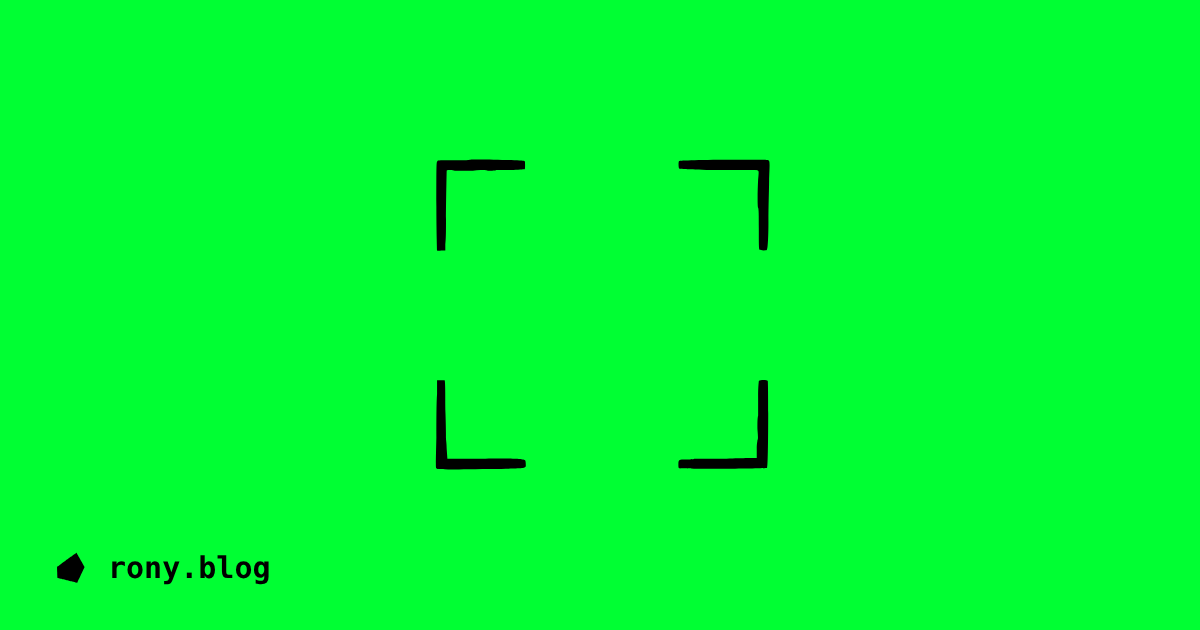
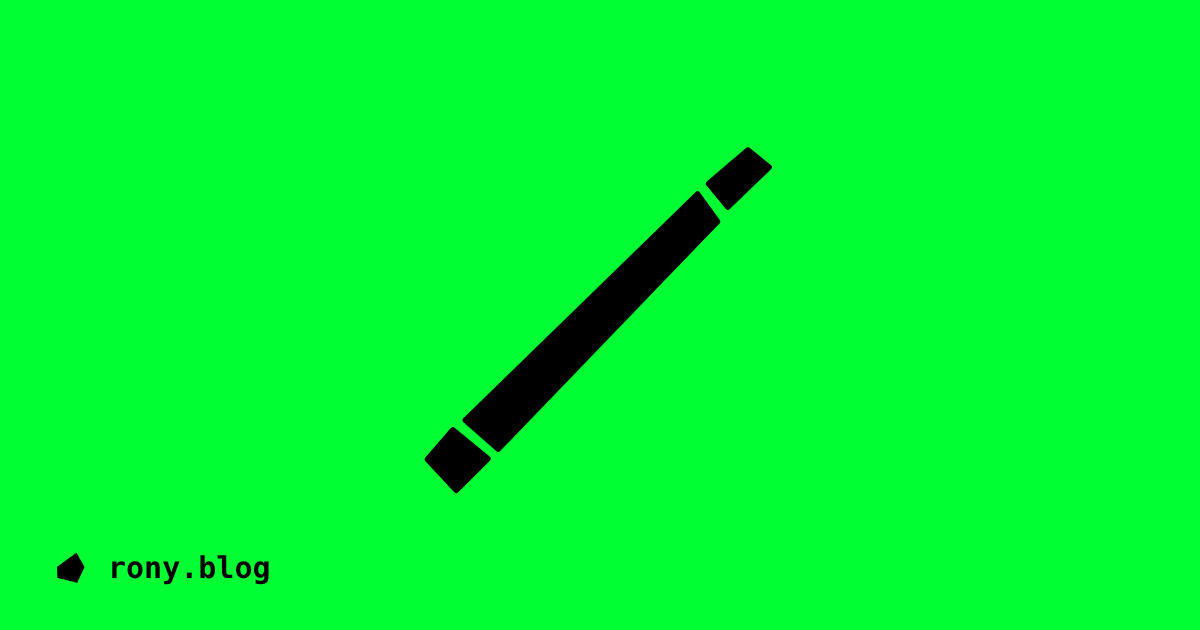
Give the talent essay a magic wand
A slim black wand with a cap at each end, drawn in the same hand-cut style
and without sparkles, replaces the empty frame in the feed, the social
cuts and the essay's share card. It joins the icon library.

Claude-Session: https://claude.ai/code/session_01DvgCqh7jZkxuLgej98F7v5

Changed region(s): [[0.3392, 0.2413, 0.6475, 0.7841], [0.555, 0.6032, 0.6475, 0.754], [0.3392, 0.2413, 0.4317, 0.3921]]

diff --git a/index.html b/index.html
@@ -375,6 +375,7 @@ h2.year { font-size: 13px; font-weight: 700; letter-spacing: .3em; color: var(--
   <symbol id="i-dots" viewBox="0 0 64 64"><path fill="currentColor" fill-rule="evenodd" d="M28.5 55.4 C28.7 55.2 28.9 55.1 29.0 55.1 C29.2 54.9 29.5 54.4 29.6 53.9 C29.8 53.4 29.8 53.4 29.6 52.9 C29.4 52.2 29.0 51.5 28.7 51.5 C28.6 51.5 28.5 51.5 28.3 51.4 C27.9 51.1 26.9 51.1 26.5 51.4 C25.6 51.9 25.1 53.0 25.3 53.8 C25.5 54.6 25.8 55.0 26.3 55.3 C26.7 55.6 26.8 55.6 27.5 55.6 C28.0 55.6 28.2 55.5 28.5 55.4 Z M19.7 46.5 C20.2 46.0 20.3 45.9 20.3 45.2 L20.3 44.7 L19.9 44.2 C19.6 43.9 19.5 43.8 19.1 43.8 C18.5 43.6 18.1 43.8 17.6 44.2 C17.0 44.8 17.0 45.5 17.6 46.2 C18.0 46.7 18.0 46.7 18.8 46.7 C19.3 46.7 19.5 46.6 19.7 46.5 Z M41.8 44.9 C42.4 44.5 42.7 43.9 42.4 43.4 C42.3 43.1 41.6 42.6 41.4 42.6 C41.1 42.6 40.7 42.9 40.4 43.2 C39.8 44.1 40.8 45.4 41.8 44.9 Z M29.8 38.1 C30.3 37.7 30.5 37.2 30.4 36.7 C30.2 36.2 29.6 35.6 29.1 35.6 C28.8 35.6 28.4 35.9 28.0 36.2 C27.7 36.5 27.7 36.6 27.7 37.0 C27.7 37.3 27.7 37.5 27.9 37.7 C28.4 38.3 29.2 38.5 29.8 38.1 Z M39.1 29.5 C39.3 29.4 39.6 29.3 39.7 29.1 C40.0 28.9 40.0 28.9 40.0 28.2 C40.0 27.5 39.9 27.2 39.3 26.9 C38.9 26.7 38.6 26.6 38.1 26.8 C37.6 27.0 37.2 27.4 37.2 27.9 C37.1 28.5 37.2 28.8 37.5 29.1 C38.1 29.6 38.5 29.7 39.1 29.5 Z M20.3 27.2 C21.0 27.1 21.4 27.0 21.9 26.5 C22.4 26.0 22.6 25.7 22.9 24.9 C23.1 24.2 23.1 23.8 22.9 23.2 C22.8 23.0 22.8 22.8 22.8 22.7 C22.8 22.3 21.9 21.3 21.3 21.0 C20.8 20.7 20.0 20.5 19.6 20.5 C19.3 20.5 18.4 20.8 17.9 21.0 C17.6 21.2 17.0 21.8 17.0 21.9 C17.0 22.0 16.9 22.1 16.8 22.2 C16.7 22.3 16.6 22.6 16.6 22.7 C16.6 22.9 16.5 23.1 16.4 23.2 C16.3 23.5 16.3 24.6 16.4 24.9 C16.5 25.0 16.6 25.3 16.7 25.6 C17.1 26.3 18.1 27.1 19.1 27.2 C19.6 27.3 19.7 27.3 20.3 27.2 Z M49.6 21.2 C49.8 21.1 50.1 20.9 50.2 20.6 C50.5 20.3 50.5 20.2 50.5 19.7 C50.5 19.3 50.5 19.1 50.3 18.8 C50.1 18.5 50.0 18.4 49.5 18.2 C49.0 18.0 49.0 18.0 48.6 18.1 C48.3 18.2 48.1 18.3 47.8 18.6 C47.4 19.1 47.3 19.3 47.3 19.7 C47.3 20.5 47.7 21.1 48.5 21.3 C48.9 21.4 49.2 21.4 49.6 21.2 Z M41.1 13.4 C41.5 13.3 41.8 13.1 42.0 12.9 C42.7 12.3 43.0 10.9 42.6 10.3 C42.5 10.2 42.5 10.1 42.5 10.0 C42.5 9.8 42.0 9.2 41.7 9.0 C41.5 8.9 41.1 8.7 40.8 8.6 C40.3 8.5 40.3 8.5 39.8 8.7 C39.5 8.7 39.1 8.9 38.9 9.0 C38.6 9.2 38.2 9.8 38.2 9.9 C38.2 9.9 38.1 10.1 38.0 10.3 C37.8 10.8 37.8 11.4 38.1 12.1 C38.3 12.8 38.8 13.2 39.6 13.5 C39.9 13.6 40.2 13.7 40.3 13.7 C40.4 13.7 40.7 13.6 41.1 13.4 Z"/></symbol>
   <symbol id="i-quad" viewBox="0 0 64 64"><path fill="currentColor" fill-rule="evenodd" d="M43.9 50.0 C43.9 49.9 44.0 49.3 44.1 48.6 C44.1 47.9 44.2 47.0 44.3 46.7 C44.3 46.4 44.4 45.7 44.4 45.1 C44.4 44.5 44.5 43.9 44.6 43.8 C44.6 43.6 44.7 43.1 44.7 42.6 C44.7 42.2 44.9 41.0 45.0 40.0 C45.1 39.1 45.2 37.7 45.3 36.9 C45.4 36.1 45.5 35.3 45.5 35.0 C45.6 34.7 45.7 34.1 45.7 33.6 C45.7 33.1 45.8 32.5 45.9 32.2 C45.9 32.0 45.9 31.6 45.9 31.3 C45.9 31.0 46.0 30.5 46.0 30.2 C46.1 29.9 46.2 29.1 46.3 28.3 C46.3 27.6 46.4 26.8 46.5 26.5 C46.5 26.3 46.5 25.8 46.5 25.6 C46.5 25.3 46.6 24.6 46.7 23.9 C46.8 23.3 46.9 22.3 46.9 21.8 C46.9 21.2 47.0 20.6 47.0 20.5 C47.1 20.4 47.1 19.8 47.2 19.3 C47.2 18.8 47.3 18.1 47.3 17.7 C47.4 16.7 47.5 15.3 47.5 15.1 C47.4 15.0 47.3 14.9 47.1 15.0 C47.0 15.0 46.7 15.1 46.3 15.1 C46.0 15.1 45.3 15.2 44.8 15.3 C44.3 15.4 43.4 15.5 42.8 15.6 C42.2 15.7 41.4 15.8 41.0 15.9 C40.6 16.0 40.1 16.0 39.8 16.1 C39.5 16.1 38.9 16.2 38.6 16.3 C37.4 16.5 36.4 16.6 35.8 16.7 C35.5 16.7 35.1 16.8 34.9 16.8 C34.7 16.9 34.3 16.9 33.9 17.0 C33.6 17.0 33.0 17.1 32.6 17.2 C31.8 17.3 31.2 17.4 29.9 17.6 C29.3 17.7 28.7 17.8 28.4 17.8 C25.8 18.3 25.4 18.3 24.5 18.5 C24.2 18.5 23.7 18.6 23.3 18.7 C22.9 18.7 22.2 18.8 21.7 18.9 C21.3 18.9 20.7 19.0 20.4 19.1 C20.2 19.1 19.7 19.2 19.4 19.2 C19.0 19.3 18.8 19.3 18.7 19.4 C18.6 19.5 18.6 19.9 18.6 20.5 C18.6 21.0 18.6 21.6 18.5 21.9 C18.5 22.3 18.4 23.1 18.1 26.6 C18.0 28.8 17.9 29.6 17.8 30.5 C17.7 31.9 17.5 34.8 17.5 36.2 C17.4 36.9 17.4 37.7 17.3 38.0 C17.3 38.3 17.2 39.1 17.2 39.8 C17.2 40.5 17.1 41.7 17.0 42.4 C17.0 43.2 16.9 44.3 16.8 44.8 C16.8 45.3 16.8 45.9 16.7 46.2 C16.7 46.8 16.8 46.9 17.7 47.0 C18.1 47.0 18.7 47.1 18.9 47.1 C19.2 47.1 19.9 47.2 20.4 47.3 C20.9 47.3 21.6 47.4 22.0 47.5 C22.8 47.6 23.5 47.7 25.3 47.9 C25.9 48.0 26.7 48.1 27.1 48.1 C27.5 48.2 28.3 48.3 28.9 48.4 C31.7 48.7 32.5 48.8 33.0 48.9 C33.4 48.9 33.8 49.0 34.0 49.0 C34.1 49.0 34.7 49.1 35.2 49.2 C36.8 49.4 38.0 49.5 38.9 49.6 C39.3 49.7 40.0 49.8 40.3 49.8 C40.6 49.8 41.1 49.9 41.4 50.0 C41.7 50.0 42.2 50.1 42.6 50.1 C42.9 50.1 43.3 50.2 43.4 50.2 C43.6 50.3 43.8 50.2 43.9 50.0 Z"/></symbol>
   <symbol id="i-coffin" viewBox="0 0 64 64"><path fill="currentColor" stroke="currentColor" stroke-width="0.9" stroke-linejoin="round" d="M29.6 6.5 L39.5 6.8 L48.5 21.3 L37.3 58.3 L22.6 56.5 L17.6 18.5 Z"/></symbol>
+  <symbol id="i-wand" viewBox="0 0 64 64"><path fill="currentColor" stroke="currentColor" stroke-width="0.8" stroke-linejoin="round" d="M6.9 53.0 L10.6 48.7 L15.7 52.9 L11.1 57.5 Z M12.4 47.3 L46.2 14.4 L49.1 18.4 L17.2 51.5 Z M47.8 12.9 L53.5 8.0 L56.6 10.5 L50.6 16.3 Z"/></symbol>
   <symbol id="i-about" viewBox="0 0 64 64"><path fill="currentColor" fill-rule="evenodd" d="M20.66 51.21 C20.83 51.16 21.33 51.10 21.77 51.08 C22.50 51.03 22.99 50.96 24.17 50.70 C24.37 50.65 24.75 50.58 25.01 50.53 C25.27 50.49 25.76 50.36 26.09 50.26 C26.43 50.16 26.93 50.02 27.21 49.95 C28.07 49.74 28.52 49.59 29.64 49.15 C29.84 49.07 30.13 48.96 30.28 48.91 C30.43 48.86 30.64 48.78 30.75 48.72 C31.10 48.55 31.57 48.34 31.62 48.34 C31.69 48.34 33.94 47.22 34.33 46.99 C34.51 46.88 34.73 46.76 34.80 46.72 C34.88 46.69 35.15 46.52 35.41 46.35 C35.67 46.18 35.98 46.00 36.09 45.94 C36.20 45.89 36.34 45.80 36.38 45.74 C36.43 45.68 36.50 45.64 36.53 45.64 C36.56 45.64 36.76 45.52 36.98 45.37 C37.19 45.23 37.55 44.99 37.77 44.85 C38.20 44.57 39.04 43.99 39.22 43.84 C42.88 40.95 44.03 39.95 45.27 38.59 C45.48 38.36 45.90 37.92 46.20 37.60 C47.46 36.29 49.40 33.93 49.42 33.70 C49.42 33.68 49.53 33.52 49.66 33.35 C49.98 32.91 51.00 31.39 51.09 31.19 C51.14 31.10 51.25 30.90 51.34 30.75 C51.43 30.60 51.53 30.42 51.57 30.34 C51.73 30.00 51.98 29.50 52.16 29.16 C52.28 28.96 52.45 28.58 52.55 28.32 C52.65 28.06 52.76 27.79 52.79 27.71 C53.52 26.10 54.07 23.73 54.07 22.16 C54.08 21.03 53.84 19.50 53.51 18.61 C53.42 18.36 53.19 17.88 53.00 17.55 C52.81 17.22 52.66 16.88 52.66 16.79 C52.66 16.70 52.71 16.47 52.77 16.27 C52.88 15.88 52.87 15.17 52.73 14.57 C52.53 13.67 51.78 12.84 50.70 12.31 C50.20 12.07 49.71 11.88 49.55 11.88 C49.47 11.88 49.27 11.82 49.09 11.74 C48.79 11.60 48.71 11.59 47.56 11.63 C46.73 11.66 46.23 11.71 45.98 11.78 C45.77 11.85 45.39 11.92 45.13 11.95 C44.52 12.02 43.29 12.25 43.05 12.35 C42.95 12.39 42.79 12.42 42.71 12.42 C42.56 12.42 41.85 12.61 41.42 12.77 C41.20 12.85 40.54 13.05 40.00 13.20 C39.81 13.26 39.57 13.35 39.45 13.40 C39.33 13.46 39.20 13.50 39.16 13.50 C39.11 13.50 38.98 13.55 38.86 13.60 C38.75 13.65 38.53 13.74 38.38 13.80 C38.23 13.85 37.95 13.96 37.76 14.04 C37.56 14.11 37.24 14.24 37.05 14.32 C36.85 14.40 36.58 14.50 36.44 14.55 C36.30 14.61 35.99 14.74 35.73 14.86 C35.48 14.97 35.14 15.13 34.97 15.20 C34.80 15.28 34.27 15.53 33.79 15.76 C33.31 15.99 32.75 16.25 32.56 16.34 C32.13 16.53 31.88 16.77 31.66 17.23 C31.50 17.58 31.22 17.83 30.75 18.07 C30.64 18.12 30.44 18.24 30.30 18.32 C29.56 18.76 29.20 18.96 28.57 19.29 C28.19 19.48 27.85 19.65 27.81 19.65 C27.76 19.65 27.61 19.54 27.47 19.41 C27.32 19.28 27.14 19.17 27.07 19.17 C26.64 19.17 26.20 19.69 26.19 20.18 C26.19 20.35 26.15 20.54 26.11 20.59 C26.01 20.71 25.55 21.06 25.49 21.06 C25.42 21.06 24.39 21.76 23.46 22.44 C22.89 22.85 22.91 22.84 22.65 23.04 C22.54 23.13 22.36 23.25 22.26 23.31 C22.06 23.44 20.64 24.57 19.75 25.32 C18.63 26.25 15.51 29.44 14.83 30.35 C14.47 30.82 14.05 31.36 13.91 31.53 C13.85 31.59 13.68 31.83 13.52 32.04 C13.36 32.26 13.06 32.66 12.87 32.92 C12.67 33.18 12.42 33.54 12.31 33.71 C12.21 33.89 11.95 34.28 11.75 34.58 C11.55 34.89 11.11 35.69 10.76 36.37 C10.41 37.05 10.10 37.65 10.07 37.72 C10.03 37.79 9.94 38.01 9.86 38.21 C9.78 38.42 9.65 38.69 9.58 38.83 C9.51 38.97 9.45 39.13 9.45 39.19 C9.45 39.25 9.39 39.44 9.32 39.62 C9.04 40.30 8.69 41.57 8.63 42.09 C8.60 42.39 8.54 42.72 8.51 42.83 C8.40 43.14 8.42 44.68 8.54 45.00 C8.59 45.14 8.64 45.40 8.64 45.56 C8.64 45.72 8.70 46.01 8.78 46.20 C9.23 47.30 9.33 47.47 9.95 48.16 C10.32 48.58 11.25 49.37 11.91 49.82 C12.05 49.92 12.36 50.15 12.61 50.33 C13.36 50.90 13.54 50.98 14.00 50.97 C14.88 50.96 17.12 51.11 17.42 51.20 C17.84 51.34 20.23 51.34 20.66 51.21 Z M16.84 49.89 C16.51 49.86 16.11 49.80 15.97 49.76 C15.82 49.72 15.56 49.69 15.39 49.69 C15.06 49.69 14.28 49.49 13.74 49.27 C13.20 49.05 12.80 48.87 12.69 48.81 C12.64 48.77 12.48 48.69 12.35 48.61 C11.74 48.27 10.53 47.03 10.53 46.73 C10.53 46.68 10.47 46.53 10.40 46.39 C9.89 45.40 9.81 43.38 10.22 41.53 C10.36 40.91 10.62 40.13 10.86 39.56 C10.97 39.32 11.14 38.92 11.24 38.68 C11.34 38.44 11.47 38.20 11.52 38.14 C11.57 38.08 11.61 37.99 11.61 37.93 C11.61 37.82 11.71 37.64 12.49 36.22 C12.59 36.03 12.83 35.65 13.02 35.38 C13.43 34.79 13.71 34.38 13.80 34.22 C14.08 33.77 15.31 32.20 15.77 31.69 C16.18 31.24 16.87 30.46 17.25 30.01 C18.00 29.12 18.99 28.11 19.95 27.26 C20.32 26.92 20.99 26.33 21.43 25.93 C22.68 24.81 23.98 23.79 24.92 23.19 C24.98 23.15 25.45 22.84 25.96 22.50 C26.48 22.15 26.95 21.87 27.01 21.87 C27.08 21.87 27.24 22.04 27.39 22.26 L27.65 22.65 L28.10 22.67 C28.35 22.68 28.61 22.66 28.69 22.62 C28.88 22.52 28.96 22.14 28.96 21.42 C28.96 20.67 29.02 20.59 29.88 20.00 C31.15 19.14 31.50 19.00 32.01 19.20 C32.25 19.30 32.43 19.31 33.18 19.27 C34.23 19.21 34.50 19.13 34.50 18.85 C34.50 18.73 34.43 18.59 34.31 18.48 C34.14 18.31 34.07 18.30 33.63 18.30 C32.94 18.30 32.98 18.09 33.76 17.69 C34.00 17.57 34.35 17.39 34.53 17.28 C34.72 17.18 35.04 17.02 35.24 16.92 C35.44 16.82 35.72 16.68 35.86 16.60 C36.00 16.53 36.16 16.47 36.22 16.47 C36.28 16.47 36.41 16.43 36.51 16.37 C36.61 16.32 36.82 16.23 36.98 16.17 C37.69 15.92 37.85 15.86 37.97 15.80 C38.05 15.76 38.24 15.69 38.40 15.63 C39.11 15.38 39.27 15.31 39.47 15.22 C39.59 15.17 39.72 15.12 39.76 15.12 C39.80 15.12 39.96 15.07 40.12 15.00 C40.51 14.82 40.80 14.72 41.33 14.57 C41.58 14.50 41.99 14.39 42.24 14.32 C42.50 14.25 42.84 14.15 43.00 14.11 C43.17 14.07 43.53 13.97 43.80 13.90 C44.06 13.83 44.36 13.77 44.45 13.77 C44.55 13.77 44.74 13.73 44.88 13.68 C45.51 13.43 48.08 13.30 48.93 13.46 C49.89 13.64 50.85 14.24 51.11 14.82 C51.25 15.12 51.28 15.63 51.17 15.91 C51.13 16.02 51.07 16.31 51.04 16.57 C51.01 16.83 50.95 17.21 50.90 17.42 C50.84 17.70 50.83 17.98 50.88 18.53 C50.93 19.21 50.95 19.28 51.08 19.29 C51.19 19.31 51.28 19.23 51.45 18.96 C51.84 18.34 51.91 18.34 52.15 19.05 C52.40 19.80 52.48 20.47 52.48 21.81 C52.47 23.03 52.40 23.82 52.24 24.34 C52.18 24.52 52.10 24.81 52.05 24.98 C51.84 25.77 51.76 26.04 51.67 26.16 C51.62 26.23 51.58 26.35 51.58 26.42 C51.58 26.49 51.54 26.63 51.48 26.72 C51.43 26.82 51.31 27.09 51.21 27.31 C50.91 27.97 50.17 29.45 49.99 29.74 C49.90 29.89 49.78 30.10 49.72 30.21 C49.66 30.32 49.53 30.55 49.42 30.72 C49.31 30.88 49.19 31.08 49.16 31.16 C49.12 31.23 49.05 31.34 48.99 31.39 C48.93 31.44 48.88 31.50 48.88 31.53 C48.88 31.56 48.79 31.72 48.67 31.88 C48.56 32.04 48.42 32.24 48.35 32.34 C48.07 32.76 47.12 34.01 46.94 34.19 C46.83 34.31 46.55 34.64 46.31 34.94 C45.84 35.54 45.65 35.74 44.62 36.82 C44.03 37.45 43.18 38.28 42.40 39.02 C42.22 39.19 41.81 39.53 41.38 39.87 C41.25 39.98 40.95 40.25 40.70 40.48 C40.45 40.71 40.10 40.99 39.92 41.12 C39.74 41.24 39.30 41.58 38.94 41.87 C38.59 42.16 37.92 42.64 37.46 42.95 C37.00 43.26 36.51 43.60 36.36 43.71 C36.06 43.94 35.99 43.99 34.79 44.69 C34.32 44.97 33.84 45.26 33.72 45.33 C33.28 45.60 32.27 46.18 32.24 46.18 C32.22 46.18 32.03 46.30 31.82 46.45 C31.60 46.60 31.40 46.72 31.37 46.72 C31.34 46.72 31.12 46.81 30.88 46.92 C30.64 47.03 30.25 47.21 30.01 47.32 C29.77 47.44 29.55 47.53 29.52 47.53 C29.49 47.53 29.39 47.57 29.29 47.62 C29.19 47.67 29.00 47.75 28.86 47.80 C28.72 47.84 28.53 47.92 28.43 47.97 C28.33 48.02 28.21 48.07 28.16 48.07 C28.11 48.07 27.99 48.11 27.89 48.17 C27.70 48.28 27.50 48.35 26.57 48.66 C24.94 49.21 23.14 49.61 21.33 49.83 C20.56 49.92 17.69 49.96 16.84 49.89 Z M29.87 41.48 C30.10 41.43 30.38 41.37 30.51 41.35 C30.64 41.32 30.86 41.24 30.99 41.18 C31.12 41.11 31.42 40.96 31.66 40.84 C32.71 40.34 33.56 39.62 34.13 38.75 C34.53 38.14 35.11 36.81 35.11 36.51 C35.11 36.38 35.15 36.14 35.21 35.98 C35.33 35.64 35.34 34.57 35.23 34.23 C35.19 34.10 35.13 33.82 35.10 33.62 C34.98 32.70 34.35 31.44 33.59 30.58 C33.16 30.10 32.17 29.36 31.53 29.05 C30.75 28.67 29.69 28.42 28.73 28.37 C28.19 28.34 27.32 28.49 26.60 28.73 C26.43 28.79 26.20 28.86 26.09 28.89 C25.98 28.92 25.75 29.03 25.59 29.12 C25.42 29.22 25.19 29.35 25.08 29.41 C24.84 29.54 24.01 30.19 23.76 30.44 C23.59 30.62 23.06 31.30 22.91 31.56 C22.54 32.16 22.14 33.14 22.14 33.43 C22.14 33.55 22.09 33.78 22.04 33.92 C21.90 34.30 21.91 35.75 22.05 36.25 C22.35 37.35 22.71 38.17 23.11 38.69 C23.82 39.63 24.69 40.42 25.45 40.81 C26.92 41.56 28.48 41.80 29.87 41.48 Z"/></symbol>
 </svg>
 
@@ -446,6 +447,7 @@ h2.year { font-size: 13px; font-weight: 700; letter-spacing: .3em; color: var(--
       <figure><span class="gtile big"><svg class="ic"><use href="library.svg#i-comet"/></svg></span><figcaption>comet</figcaption></figure>
       <figure><span class="gtile big"><svg class="ic"><use href="library.svg#i-blocks"/></svg></span><figcaption>blocks</figcaption></figure>
       <figure><span class="gtile big"><svg class="ic"><use href="library.svg#i-coffin"/></svg></span><figcaption>coffin</figcaption></figure>
+      <figure><span class="gtile big"><svg class="ic"><use href="library.svg#i-wand"/></svg></span><figcaption>wand</figcaption></figure>
     </div>
     <p><strong>One post, many cuts.</strong> A post is written once as a list of parts: text, image or clip. The page shows it two ways: read, as an essay with the clips set into it, and swipe, panel by panel for a phone.</p>
     <p><strong>Two languages, one stream.</strong> Every piece appears in the language it was written in. A switch shows the other language, translated automatically, and the translated page always says so and links back to the original.</p>
@@ -547,7 +549,7 @@ h2.year { font-size: 13px; font-weight: 700; letter-spacing: .3em; color: var(--
       ]
     },
     {
-      id: 'talent', glyph: 'frame', lang: 'fr', kind: 'essay', numbered: false,
+      id: 'talent', glyph: 'wand', lang: 'fr', kind: 'essay', numbered: false,
       date: '2026-07-14',
       title: 'La France a un incroyable talent, une fois régularisé',
       dek: 'À travers <em>Une vie en France</em>, série de portraits diffusée par France Télévisions le 14 juillet, se rejoue une vieille obsession française : décider quels talents méritent d’être reconnus, accueillis ou célébrés. En revenant sur <em>Exemplaires</em>, un film réalisé cinq ans plus tôt, je comprends que mes deux œuvres racontent la même histoire, de part et d’autre du guichet.',
